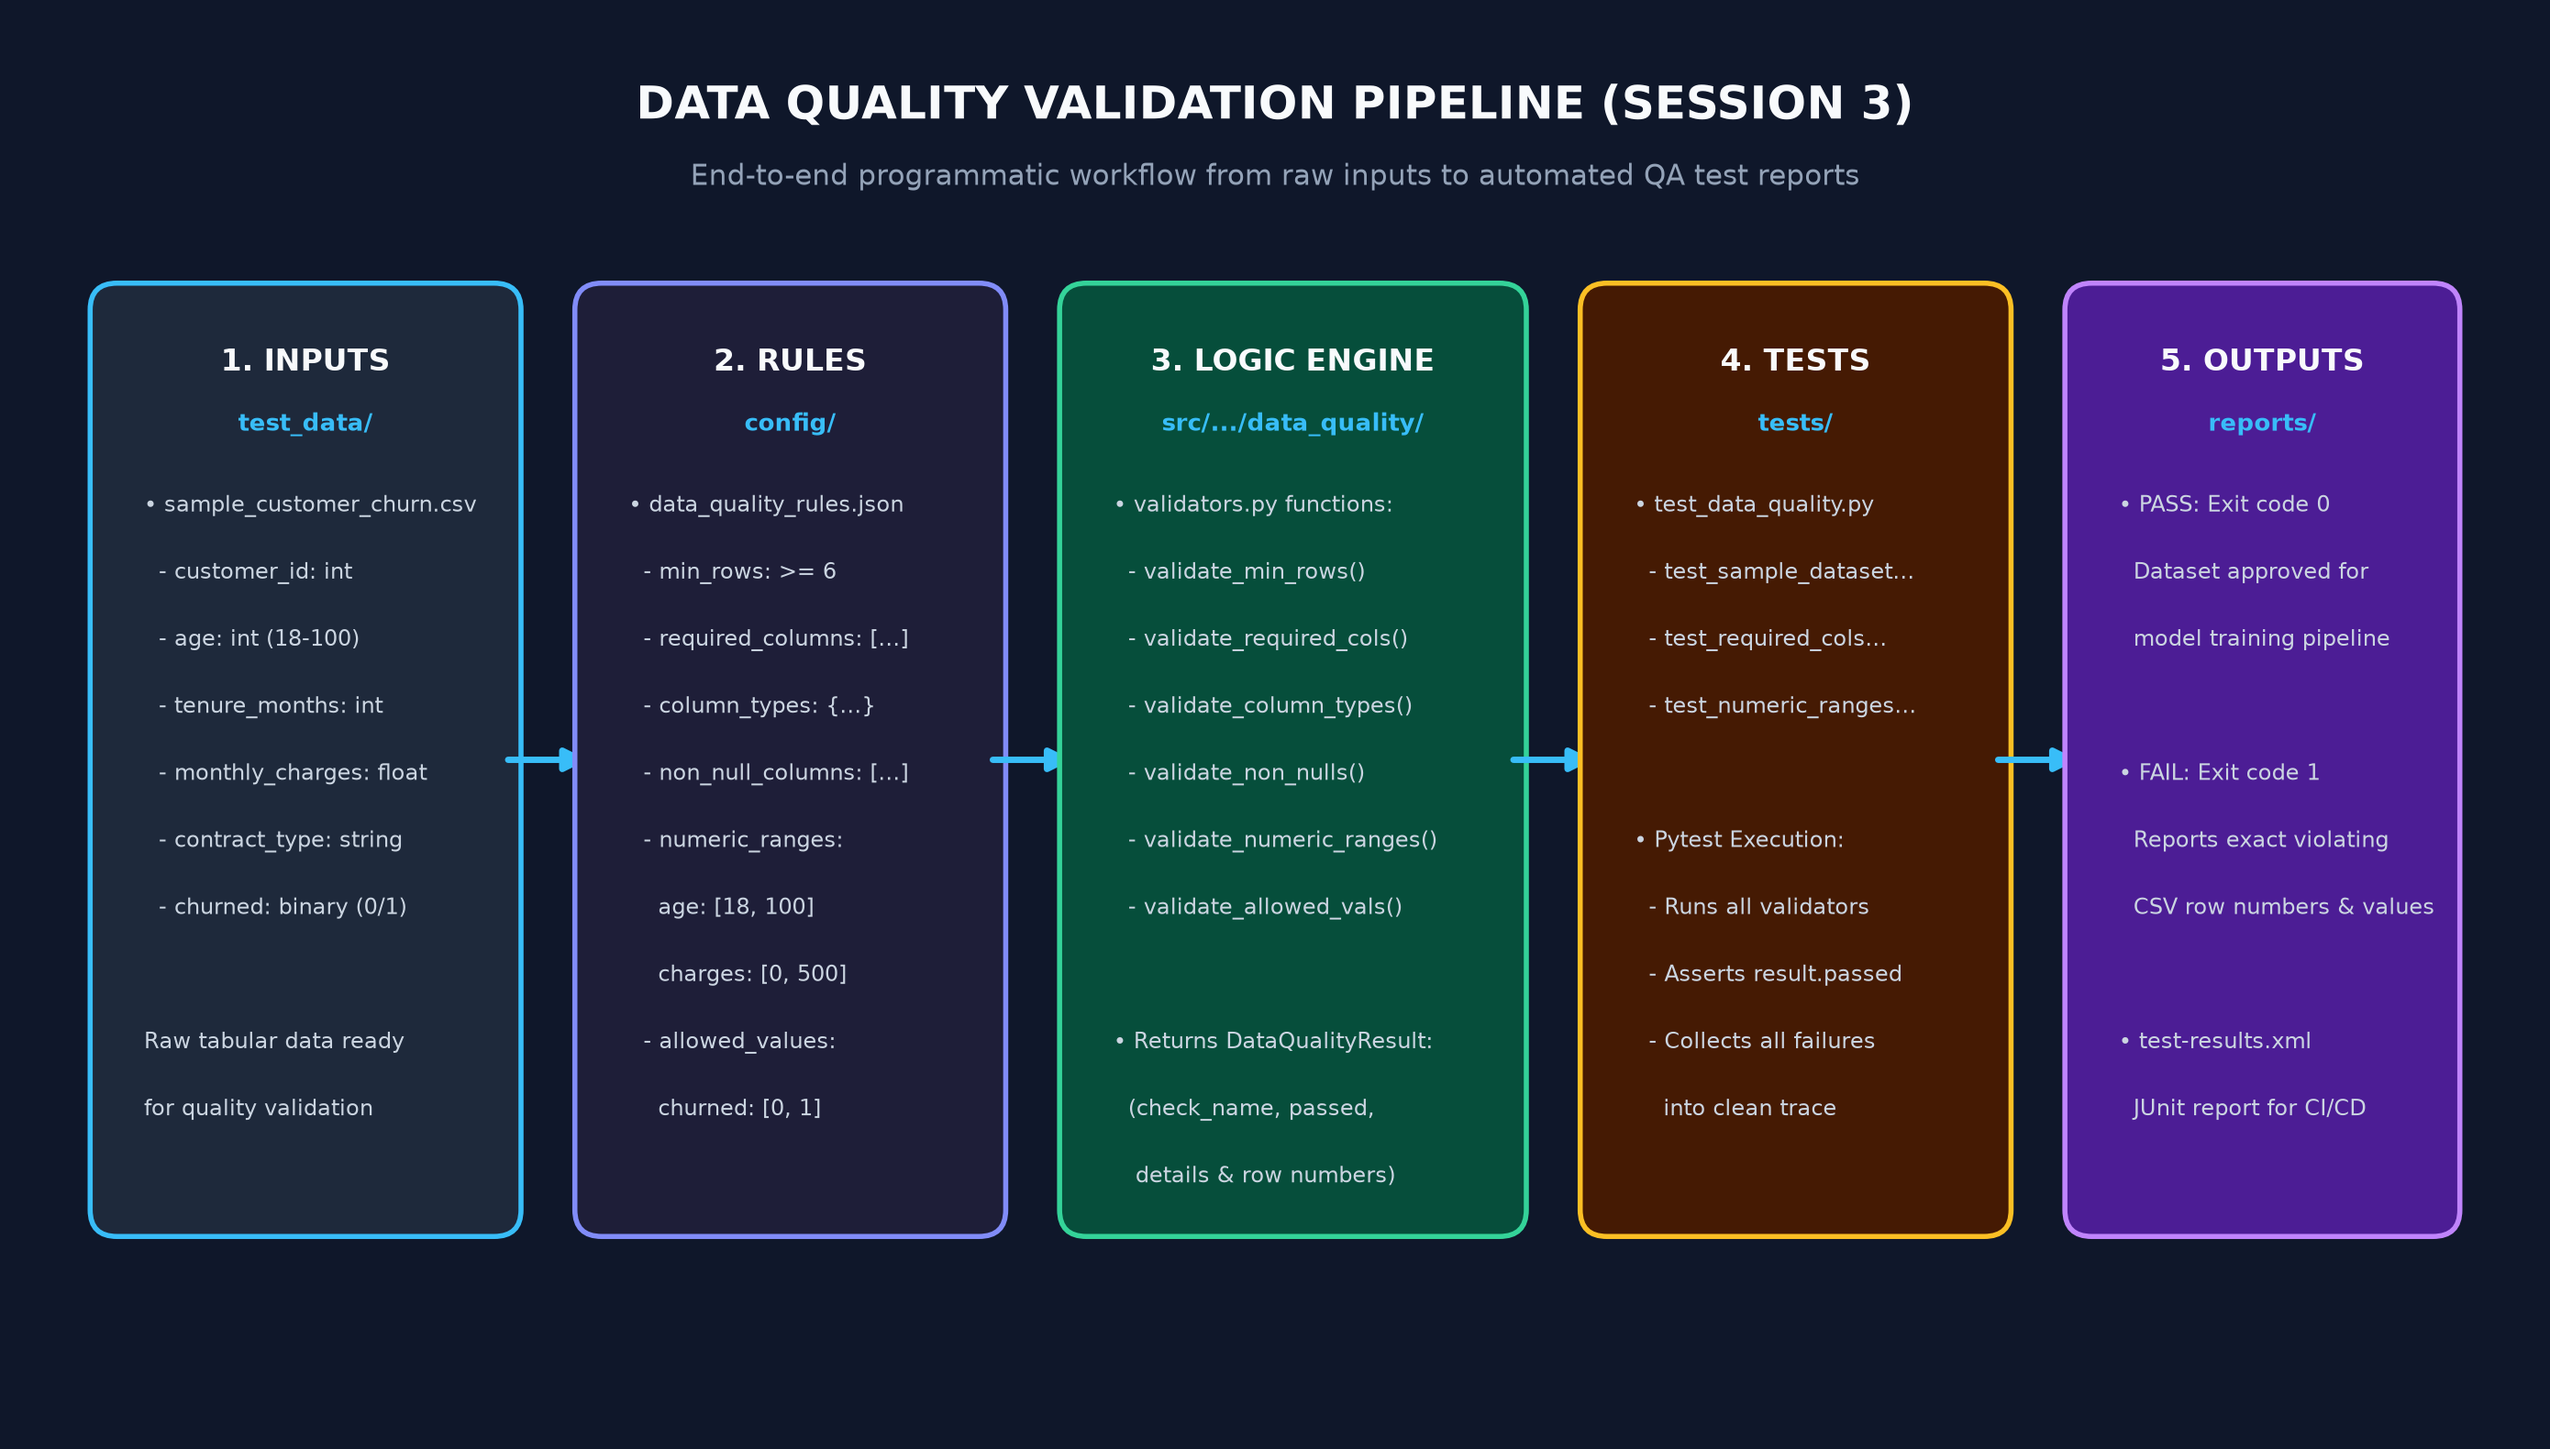
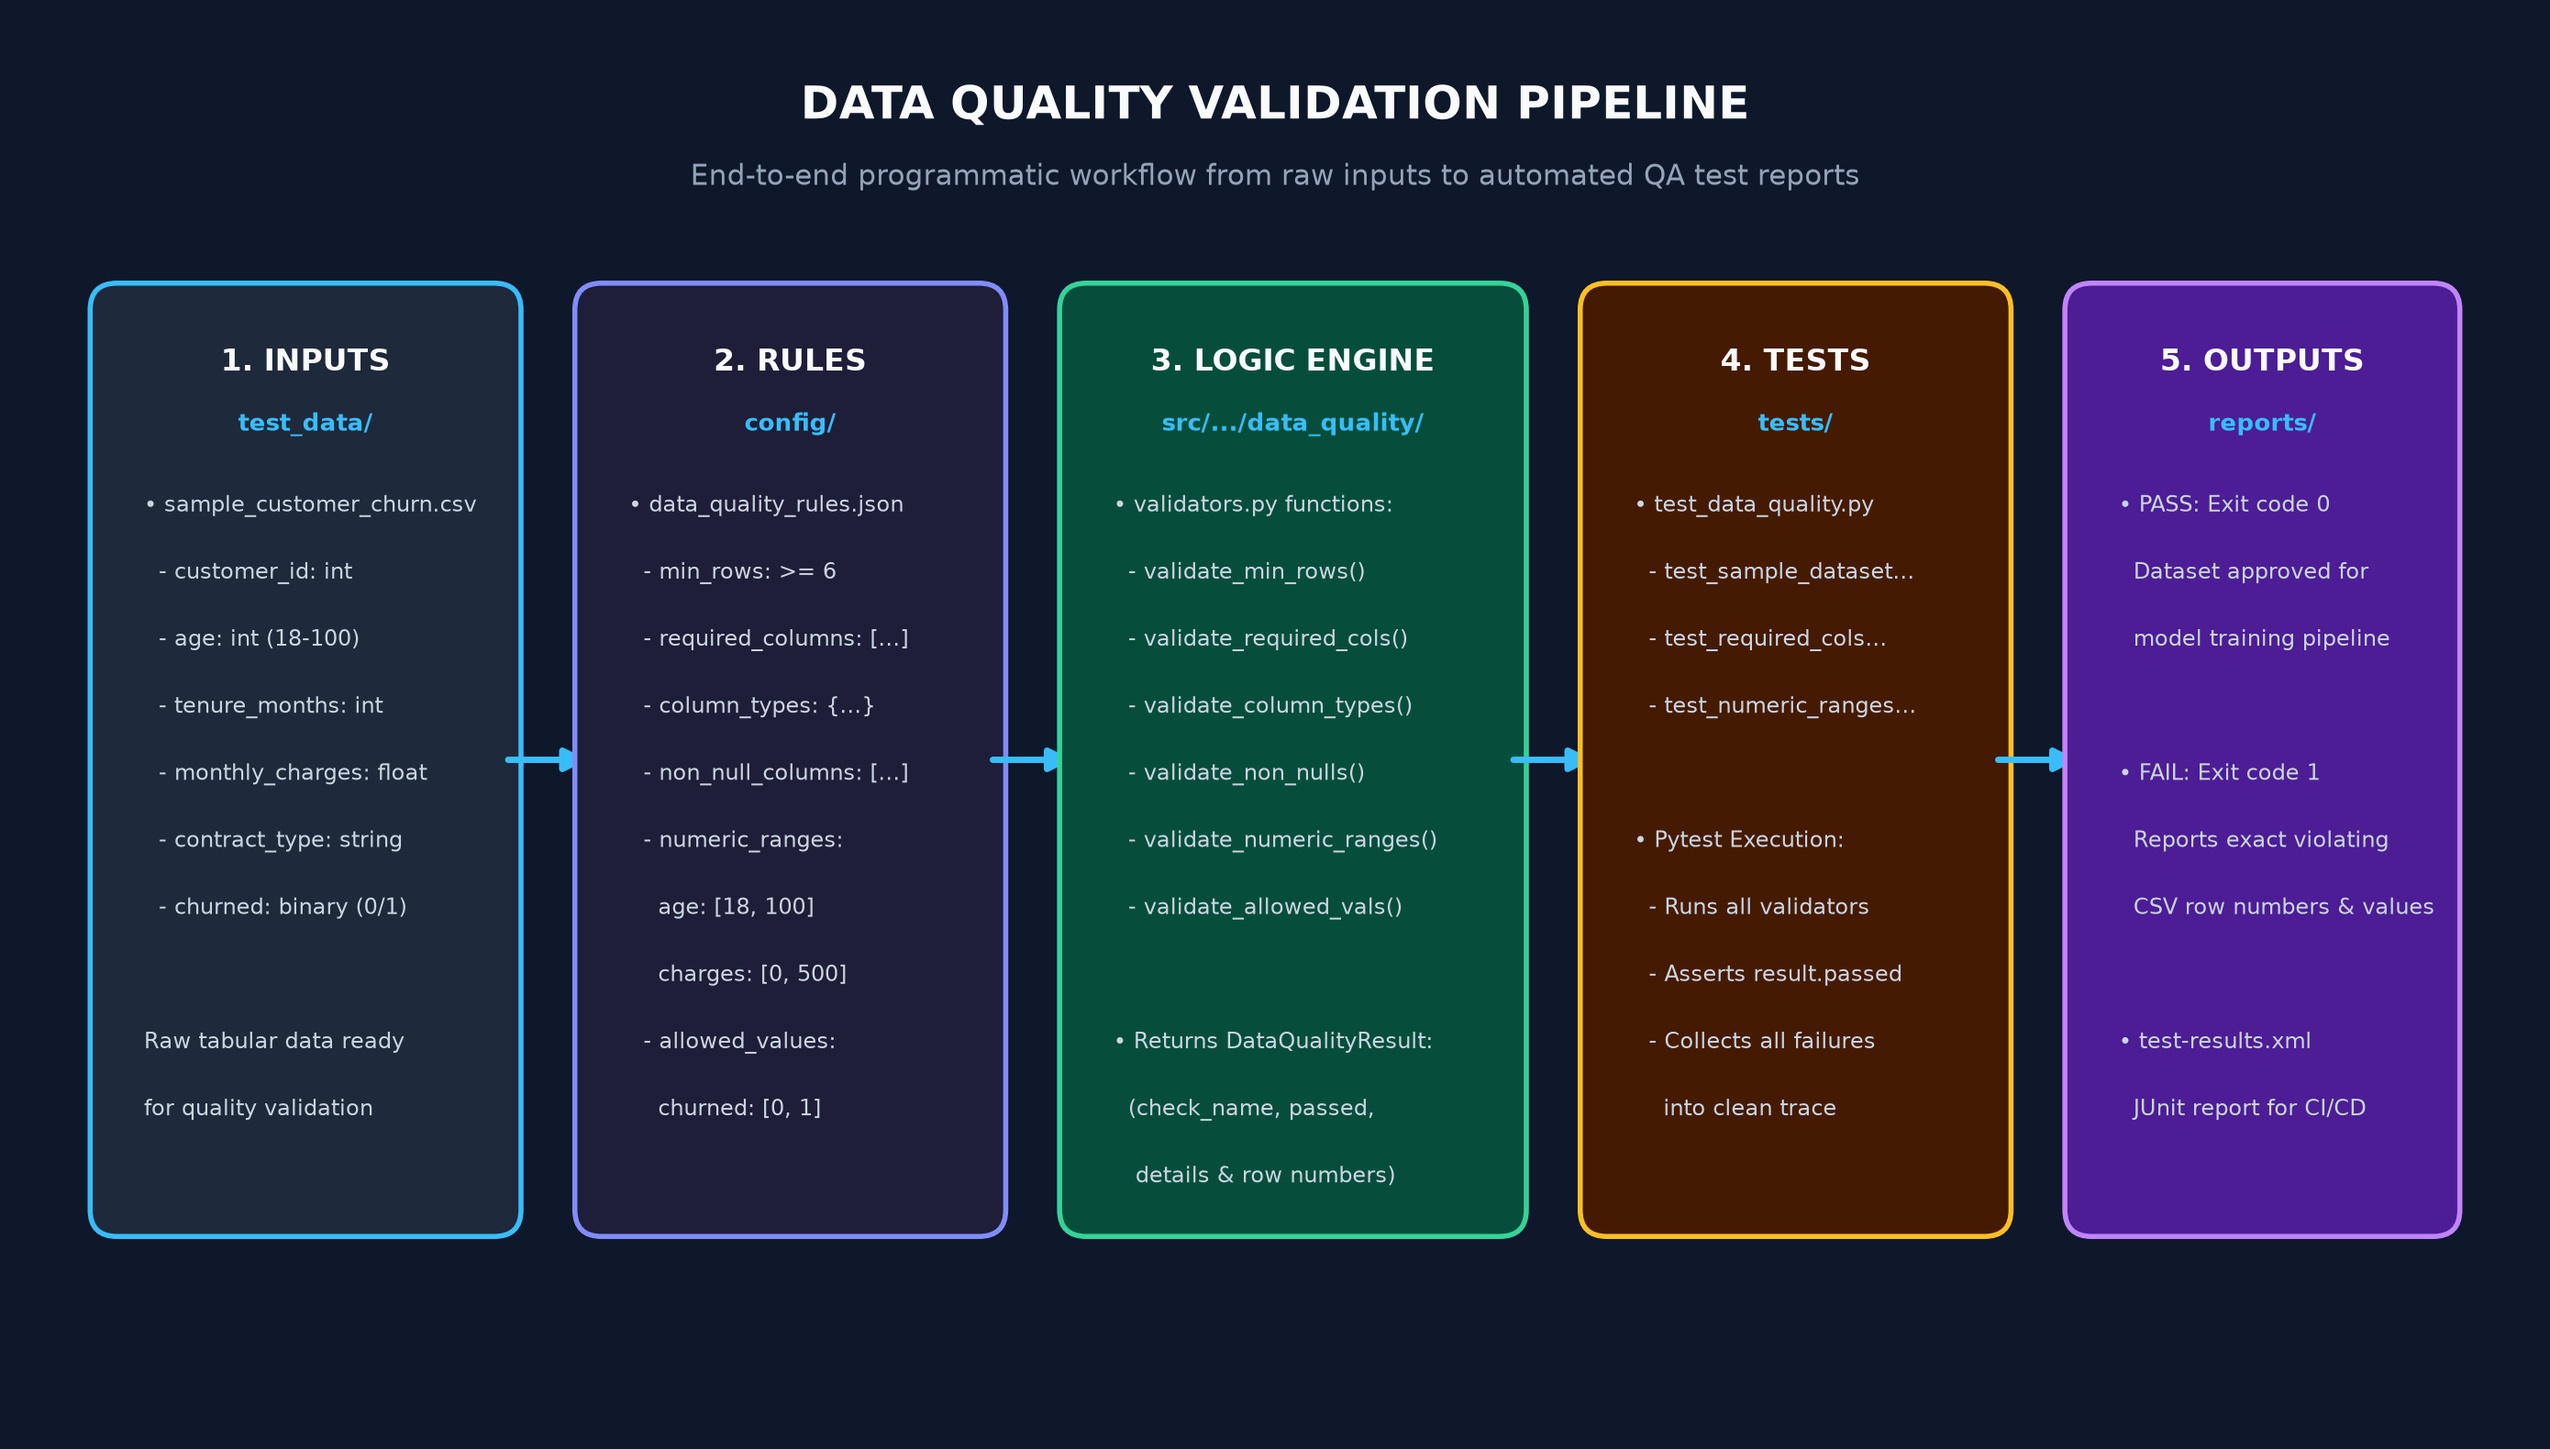
new changes

Changed region(s): [[0.2475, 0.062, 0.7424, 0.093]]

diff --git a/README.md b/README.md
@@ -12,7 +12,7 @@ Each capability in the framework is self-contained with its own rules, evaluatio
 | :--- | :---: | :--- | :--- |
 | **Data Quality Testing** | Complete | [Data Quality Guide](docs/capabilities/data_quality.md) | Schema validation, pandas dtypes, null constraints, numeric ranges, category checks |
 | **ML Model Performance Testing** | Complete | [Model Performance Guide](docs/capabilities/model_performance.md) | Classification metrics (Accuracy, F1, ROC-AUC), FPR/FNR bounds, subgroup slices, regression gates |
-| **Data Drift Detection** | Next Up | *Planned (Session 5)* | KS-test, Population Stability Index (PSI), Chi-Square test for feature shift |
+| **Data Drift Detection** | Next Up | *Planned* | KS-test, Population Stability Index (PSI), Chi-Square test for feature shift |
 | **Model Drift & Degradation** | Planned | *Planned* | Tracking prediction drift and ground-truth concept decay over time |
 | **AI Observability (Logs, Metrics, Traces)** | Planned | *Planned* | OpenTelemetry instrumentation, inference latency, token tracing |
 | **Monitoring & Alert Validation** | Planned | *Planned* | Threshold triggers, alert rule verification, synthetic degradation alarms |
@@ -48,10 +48,10 @@ ai-observability-qa-framework/
 ├── src/
 │   └── ai_observability_qa/
 │       ├── __init__.py
-│       ├── data_quality/                   # Session 3: Data Quality
+│       ├── data_quality/                   # Data Quality Validation
 │       │   ├── __init__.py
 │       │   └── validators.py
-│       ├── model_performance/              # Session 4: Model Performance
+│       ├── model_performance/              # ML Model Performance Testing
 │       │   ├── __init__.py
 │       │   ├── metrics.py
 │       │   └── validators.py

diff --git a/docs/capabilities/model_performance.md b/docs/capabilities/model_performance.md
@@ -1,4 +1,4 @@
-# Session 4: ML Model Performance Testing
+# ML Model Performance Testing
 
 A production-style QA validation module for evaluating machine learning model predictions, ensuring classification accuracy, operational error compliance, fairness across subgroup slices, and automated regression detection.
 

diff --git a/docs/capabilities/data_quality.md b/docs/capabilities/data_quality.md
@@ -1,4 +1,4 @@
-# Session 3: Data Quality Testing
+# Data Quality Testing
 
 A modular validation suite for tabular datasets in AI/ML systems, verifying schema integrity, null constraints, numeric bounds, and category sets before training or inference.
 
